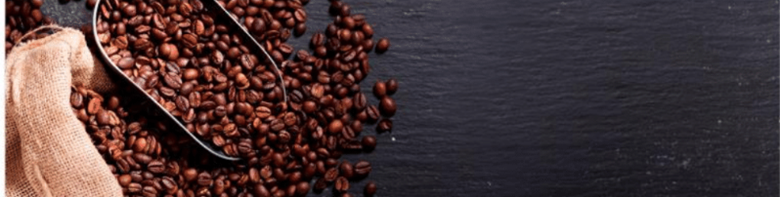
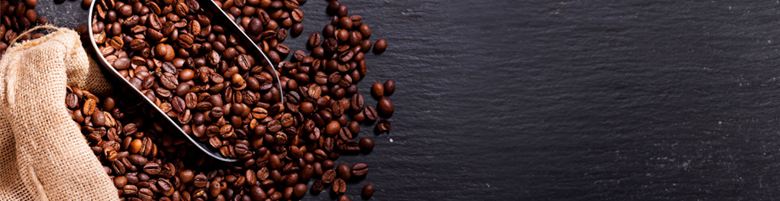
Ajusted visuales

diff --git a/src/components/Login/Login.js b/src/components/Login/Login.js
@@ -15,6 +15,7 @@ function Login() {
 
     const [usuario, setUsuario] = useState('');
     const [password, setPassword] = useState('');
+    const [error, setError] = useState('');
     const navigate = useNavigate();
 
     const handleSubmit = () => {
@@ -23,38 +24,35 @@ function Login() {
         if (isValid && password.length > 0) {
           navigate(`/home`); 
         }else{
-            window.alert('Error de autenticación. Revise sus credenciales');
-
+            setError('Error de autenticación. Revise sus credenciales');
         }
       };
 
   return (
-    <div className="login center-content">
-     <Row><Col className="title"><strong>Inicio de sesión</strong></Col></Row>
-     <Row>
-        <Card>
-            <Row><Col className="title"><strong>Nombre de usuario</strong></Col></Row>
+    <div className="login-content">
+     <Row className="login-container"><Col><strong>Inicio de sesión</strong></Col></Row>
+     <Row className="login-container">
+        <Card className="login-card">
+            <Row><Col><strong>Nombre de usuario</strong></Col></Row>
             <Row>
                 <Form>
                     <Form.Group controlId="usuarioInput">
                         <Form.Control 
                             type="usuario" 
-                            placeholder="Nombre de usuario" 
-                            className="wider-form-control"
                             onChange={(e) => setUsuario(e.target.value)}
+                            className="form-control"
                         />
                     </Form.Group>
                 </Form>
             </Row>
-            <Row><Col className="title"><strong>Contraseña</strong></Col></Row>
+            <Row><Col><strong>Contraseña</strong></Col></Row>
             <Row>
                 <Col className = "mb-2">
                 <Form>
                     <Form.Group controlId="passwordInput">
                     <Form.Control 
+                    className="form-control"
                     type="password" 
-                    placeholder="Ingresa tu contraseña" 
-                    className="wider-form-control"
                     onChange={(e) => setPassword(e.target.value)}
                     />
                     </Form.Group>
@@ -62,8 +60,13 @@ function Login() {
                 </Col>
             </Row>
             <Row>
-                <Col><Button variant= "primary" className="wider-form-control" onClick={handleSubmit}>Ingresar</Button></Col>
-                <Col><Button variant= "primary" className="wider-form-control">Cancelar</Button></Col>
+                <Col><Button variant= "primary" className="green-button" onClick={handleSubmit}>Ingresar</Button></Col>
+                <Col><Button variant= "primary" className="red-button">Cancelar</Button></Col>
+            </Row>
+            <Row>
+                <Col>
+                    <p className="error-message">{error}</p>
+                </Col>
             </Row>
         </Card>
      </Row>

diff --git a/src/components/Home/Home.js b/src/components/Home/Home.js
@@ -1,7 +1,6 @@
 import React, { useState } from "react";
 import Cafe from "../Cafe/Cafe";
 import './Home.css'; 
-import { Link } from "react-router-dom"; 
 import Row from "react-bootstrap/Row";
 import Col from "react-bootstrap/Col";
 
@@ -47,29 +46,29 @@ function Home(){
 
   return (
     <Row>
-        <Col>
-        <table className="table">
-            <thead className="thead-dark">
+        <Col className="left-column">
+        <table className= "table-style">
+            <thead className="thead-style">
             <tr>
                 <th scope="col">#</th>
                 <th scope="col">Nombre</th>
                 <th scope="col">Tipo</th>
-                <th scope="col">Region</th>
+                <th scope="col">Región</th>
             </tr>
             </thead>
             <tbody>
             {cafes.map((cafe, index) => (
                 <tr key={index} onClick={() => handleCafeClick(cafe)}>
-                <th scope="row">{index + 1}</th>
-                <td>{cafe.nombre}</td>
-                <td>{cafe.tipo}</td>
-                <td>{cafe.region}</td>
-            </tr>
+                  <th scope="row">{index + 1}</th>
+                  <td>{cafe.nombre}</td>
+                  <td>{cafe.tipo}</td>
+                  <td>{cafe.region}</td>
+                </tr>
             ))}
             </tbody>
         </table>
         </Col>
-        <Col>
+        <Col className="right-column">
             <Cafe cafe= {selectedCafe}></Cafe>
         </Col>
 

diff --git a/src/components/Cafe/Cafe.js b/src/components/Cafe/Cafe.js
@@ -1,18 +1,20 @@
 import React from "react";
 import Card from "react-bootstrap/Card";
 
+import "./Cafe.css"
+
 function Cafe({ cafe }) {
   if (!cafe) {
-    return null; // Don't render anything if cafe is not selected
+    return null;
   }
 
   return (
-    <Card className="cafe-details">
-      <h2>{cafe.nombre}</h2>
-      <p>{cafe.fecha}</p>
-      <p>{cafe.imagen}</p>
-      <p>{cafe.notas}</p>
-      <p>{cafe.altura}</p>
+    <Card className="cafe-card">
+      <p style={{ fontSize: "18px", fontWeight: "900", marginBottom: "0" }}>{cafe.nombre}</p>
+      <p style={{ fontSize: "14px", fontWeight: "300" }}>{cafe.fecha}</p>
+      <img src={cafe.imagen} alt={cafe.nombre} width="200" height="150" /> 
+      <p style={{ fontSize: "18px", fontWeight: "300" }}>{cafe.notas}</p>
+      <p style={{ fontSize: "18px", fontWeight: "900" }}>{cafe.altura}</p>
     </Card>
   );
 }

diff --git a/src/components/Login/Login.css b/src/components/Login/Login.css
@@ -1,0 +1,49 @@
+.login-content {
+    font-family: "inter";
+    font-size: 20px;
+    font-weight: 700;
+    
+}
+
+.login-card {
+
+    background-color: #E0BBBB33; 
+    padding: 20px 150px; 
+    border-radius: 0px;
+    box-shadow: 0 4px 8px rgba(0, 0, 0, 0.2); 
+    border: 1px solid #000; 
+}
+
+.login-container {
+    padding:  10px 280px;
+}
+
+.form-control {
+    background-color: #D9D9D9; 
+}
+
+.green-button {
+    background-color: #8FA98F; 
+    color: white; 
+    font-size: 20px; 
+    padding: 10px 50px; 
+    border-radius: 0px;
+
+}
+
+.red-button {
+    background-color: #E75D5D; 
+    color: white; 
+    font-size: 20px; 
+    padding: 10px 50px; 
+    border-radius: 0px;
+
+}
+
+.error-message {
+
+    font-family: "inter";
+    font-size: 20px;
+    font-weight: 700;
+    color: #CD3232;
+}

diff --git a/src/components/Footer/Footer.js b/src/components/Footer/Footer.js
@@ -2,13 +2,18 @@ import React from 'react';
 import Row from 'react-bootstrap/Row';
 import Col from 'react-bootstrap/Col';
 
+import "./Footer.css"
 
 function Footer(){
 
     return(
 
-        <div >
-             <Row>Contact us: +57 3102105253 - info@elaromamagico.com - @elaromamagico</Row>
+        <div className="mt-4">
+             <Row>
+                <Col fluid className="footer-text text-center">
+                    Contact us: +57 3102105253 - info@elaromamagico.com - @elaromamagico
+                </Col>
+            </Row>
        </div> 
     );
 }

diff --git a/src/components/Banner/Banner.js b/src/components/Banner/Banner.js
@@ -9,13 +9,13 @@ function Banner(){
 
     return(
 
-        <div className="login center-content">
+        <div>
          <Row>
-            <Col className="title"><h2>El aroma magico</h2></Col>
+            <Col className="banner-title">El aroma mágico</Col>
          </Row>
          <div className="line-divider"></div>
          <Row>
-            <Col> <img src={imagen} alt="Imagen" /></Col>
+            <img src={imagen} fluid className="imagen" alt='imagen'></img> 
          </Row>
          <div className="line-divider"></div>
        </div> 

diff --git a/src/components/Banner/Banner.css b/src/components/Banner/Banner.css
@@ -3,3 +3,10 @@
     border-top: 1px solid #ccc; /* Adjust the color and thickness as needed */
     margin: 15px 0; /* Adjust the margin to control the spacing above and below the line */
   }
+
+.banner-title{
+    font-family: 'indie_flower', cursive;
+    font-size: 36px; /* Tamaño de fuente de 36px */
+    font-weight: bold; /* Texto en negrita */
+    text-shadow: 2px 2px 4px rgba(0, 0, 0, 0.5); /* Sombra de texto (ajusta los valores según tus preferencias) */
+}

diff --git a/src/components/Home/Home.css b/src/components/Home/Home.css
@@ -1,0 +1,31 @@
+.thead-style {
+    font-family: "inter";
+    font-size: 20px;
+    font-weight: 700;
+    background-color: #333A40; 
+    color: white;
+
+}
+
+.table-style {
+    width: 100%;
+
+}
+
+
+tr {
+    border-bottom: 1px solid #ddd; 
+    line-height: 2.5;  
+}
+
+tr:last-child {
+    border-bottom: none;
+}
+
+.left-column {
+    flex: 70%; 
+  }
+  
+  .right-column {
+    flex: 30%; 
+  }

diff --git a/src/components/Cafe/Cafe.css b/src/components/Cafe/Cafe.css
@@ -1,0 +1,9 @@
+.cafe-card{
+
+    font-family: "inter";
+    background-color: #E0BBBB33; 
+    border-radius: 0px;
+    box-shadow: 0 4px 8px rgba(0, 4, 4, 0); 
+    border: 1px solid #000; 
+    align-items: center;
+}

diff --git a/src/components/Footer/Footer.css b/src/components/Footer/Footer.css
@@ -1,0 +1,4 @@
+.footer-text{
+    font-family: 'inter';
+    font-size: 18px; /* Tamaño de fuente de 36px */
+}
